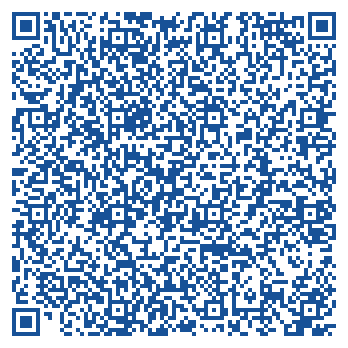
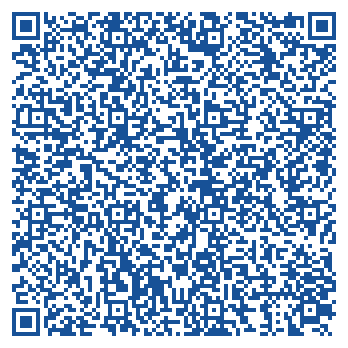
feat: Notificaciones de intervencion humana al celular del dueño y entorno unificado

diff --git a/src/tools.py b/src/tools.py
@@ -1,4 +1,6 @@
 import dateparser
+import os
+import requests
 from database import supabase
 
 def consultar_inventario(modelo_corregido: str, comercio_id: str) -> str:
@@ -31,48 +33,152 @@ def consultar_horarios(comercio_id: str) -> str:
         datos = response.data
         if not datos:
             return "No hay horarios de atención configurados."
-        resultado = "Horarios de atención:\n"
+        resultado = "Nuestros horarios:\n"
         for h in datos:
             apertura = h['hora_apertura'][:5] if h['hora_apertura'] else '—'
             cierre = h['hora_cierre'][:5] if h['hora_cierre'] else '—'
-            resultado += f"- {h['dia_semana']}: {apertura} a {cierre}\n"
+            # Le sacamos el asterisco rebelde
+            resultado += f"- {h['dia_semana']}: de {apertura} a {cierre}\n"
         return resultado
     except Exception as e:
         return f"Error al consultar horarios: {str(e)}"
 
 def agendar_cita(cliente_nombre: str, telefono: str, fecha_turno: str, celular_id: int, comercio_id: str) -> str:
-    """Agenda una cita para un cliente en la tienda asociando el ID del celular."""
-    print(f"\n[Sistema] 📅 Agendando cita: {cliente_nombre} - Fecha: '{fecha_turno}' - Celular ID: {celular_id}")
+    """Agenda o modifica una cita (si el teléfono ya tiene un turno previo)."""
+    print(f"\n[Sistema] 📅 Procesando cita: {cliente_nombre} ({telefono}) - Fecha: '{fecha_turno}'")
     try:
         settings = {'PREFER_DATES_FROM': 'future', 'TIMEZONE': 'America/Argentina/Buenos_Aires'}
         fecha_objetivo = dateparser.parse(fecha_turno, languages=['es'], settings=settings)
 
         if not fecha_objetivo:
-            return f"No entendí la fecha '{fecha_turno}'. Intentá algo como 'Mañana a las 10:00'."
+            return f"No pude entender bien la fecha '{fecha_turno}'. Por favor decime el día y la hora exactos."
 
         fecha_iso = fecha_objetivo.strftime("%Y-%m-%d %H:%M:%S")
-        print(f"[Sistema] 📅 Fecha parseada: {fecha_iso}")
 
-        update_res = supabase.table("inventario_celulares") \
-            .update({"estado_venta": "pendiente"}) \
-            .eq("id", celular_id) \
+        # 1. Chequeamos si este cliente (por teléfono) ya tiene un turno en este comercio
+        turno_existente = supabase.table("turnos_clientes") \
+            .select("*") \
+            .eq("telefono", telefono) \
             .eq("comercio_id", comercio_id) \
             .execute()
-        print(f"[Sistema] 📅 Update inventario: {update_res.data}")
 
-        insert_payload = {
-            "comercio_id": comercio_id,
-            "celular_id": celular_id,
-            "cliente_nombre": cliente_nombre,
-            "telefono": telefono,
-            "fecha_turno": fecha_iso
-        }
-        print(f"[Sistema] 📅 Insertando turno: {insert_payload}")
-        
-        insert_res = supabase.table("turnos_clientes").insert(insert_payload).execute()
-        print(f"[Sistema] 📅 Resultado insert: {insert_res.data}")
+        if turno_existente.data:
+            # 🔄 ES UNA MODIFICACIÓN DE TURNO
+            turno_viejo = turno_existente.data[0]
+            viejo_celular_id = turno_viejo.get("celular_id")
 
-        return f"¡Cita agendada! Para {cliente_nombre} el día {fecha_objetivo.strftime('%d/%m a las %H:%M')}."
+            # Si el cliente cambió de celular elegido
+            if viejo_celular_id and viejo_celular_id != celular_id:
+                print(f"[Sistema] 🔄 Liberando celular anterior: ID {viejo_celular_id}")
+                supabase.table("inventario_celulares").update({"estado_venta": "disponible"}).eq("id", viejo_celular_id).execute()
+                
+                if celular_id:
+                    print(f"[Sistema] 🔒 Reservando nuevo celular: ID {celular_id}")
+                    supabase.table("inventario_celulares").update({"estado_venta": "pendiente"}).eq("id", celular_id).execute()
+                        
+            # Actualizamos la cita existente con los nuevos datos
+            update_payload = {
+                "cliente_nombre": cliente_nombre,
+                "fecha_turno": fecha_iso,
+                "celular_id": celular_id
+            }
+            supabase.table("turnos_clientes").update(update_payload).eq("id", turno_viejo["id"]).execute()
+            print(f"[Sistema] ✏ Turno ID {turno_viejo['id']} actualizado con éxito.")
+
+            return f"¡Cita modificada! Agendado para el {fecha_objetivo.strftime('%A %d/%m a las %H:%M')}."
+
+        else:
+            # 🆕 ES UN TURNO NUEVO
+            if celular_id:
+                supabase.table("inventario_celulares").update({"estado_venta": "pendiente"}).eq("id", celular_id).execute()
+
+            insert_payload = {
+                "comercio_id": comercio_id,
+                "celular_id": celular_id,
+                "cliente_nombre": cliente_nombre,
+                "telefono": telefono,
+                "fecha_turno": fecha_iso
+            }
+            supabase.table("turnos_clientes").insert(insert_payload).execute()
+            print(f"[Sistema] 📅 Turno nuevo insertado con éxito.")
+
+            return f"¡Cita agendada! Te esperamos el {fecha_objetivo.strftime('%A %d/%m a las %H:%M')}."
+
     except Exception as e:
-        print(f"[Sistema] ❌ Error agendar_cita: {str(e)}")
-        return f"Error al agendar la cita: {str(e)}"
+        print(f"[Sistema] ❌ Error en agendar_cita: {str(e)}")
+        return f"Error al procesar la cita: {str(e)}"
+    
+def obtener_configuracion_comercio(comercio_id: int) -> dict:
+    """Trae las políticas personalizadas del comercio desde la base de datos."""
+    try:
+        response = supabase.table("configuracion_comercios") \
+            .select("*") \
+            .eq("comercio_id", comercio_id) \
+            .execute()
+        if response.data:
+            return response.data[0]
+    except Exception as e:
+        print(f"[Sistema] ❌ Error leyendo configuración del comercio: {e}")
+    
+    return {
+        "metodos_pago": "Efectivo",
+        "recargo_usdt": "A consultar",
+        "tipo_cambio_efectivo": "A coordinar el día de la cita",
+        "permuta_minima": "No especificado",
+        "politica_garantia": "Garantía estándar de la tienda",
+        "telefono_dueno": None
+    }
+
+def solicitar_asistencia_humana(motivo: str, telefono_cliente: str, comercio_id: int) -> str:
+    """Envía un WhatsApp de alerta al dueño del comercio notificándole que se requiere su atención."""
+    print(f"\n[Sistema] 🚨 Solicitando asistencia humana para Comercio ID: {comercio_id}. Motivo: {motivo}")
+    try:
+        # 1. Obtenemos los datos de configuración de la tienda y su instancia de Evolution
+        config_res = supabase.table("configuracion_comercios").select("telefono_dueno").eq("comercio_id", comercio_id).execute()
+        comercio_res = supabase.table("comercios").select("evolution_instance").eq("id", comercio_id).execute()
+        
+        if not config_res.data or not config_res.data[0].get("telefono_dueno"):
+            return "No se pudo alertar al dueño porque no tiene configurado un teléfono de soporte en el panel."
+        
+        if not comercio_res.data:
+            return "Error: No se encontró la instancia de WhatsApp de este comercio."
+
+        telefono_dueno = config_res.data[0]["telefono_dueno"]
+        instance_name = comercio_res.data[0]["evolution_instance"]
+        
+        # Limpiamos el JID del cliente para dejar solo el número
+        cliente_numero_limpio = telefono_cliente.split("@")[0]
+
+        # 2. Diseñamos el mensaje de alerta para el dueño (Formato directo y conciso)
+        texto_alerta = (
+            f"🚨 *Intervención requerida*\n\n"
+            f"📱 *Número:* {cliente_numero_limpio}\n"
+            f"📌 *Motivo:* {motivo}"
+        )
+
+        # 3. Enviamos el mensaje usando la Evolution API configurada
+        EVOLUTION_API_URL = os.getenv("EVOLUTION_API_URL", "https://evolution-api-production-4b88.up.railway.app")
+        API_KEY = os.getenv("EVOLUTION_API_KEY", "74BD7CFB-C38A-4143-833A-FCEA92FBBA21")
+        
+        url = f"{EVOLUTION_API_URL}/message/sendText/{instance_name}?checkNumber=false"
+        headers = {
+            "apikey": API_KEY,
+            "Content-Type": "application/json"
+        }
+        payload = {
+            "number": telefono_dueno,
+            "text": texto_alerta,
+            "checkNumber": False
+        }
+        
+        res = requests.post(url, headers=headers, json=payload)
+        if res.status_code in [200, 201]:
+            print(f"[Sistema] ✅ WhatsApp de alerta enviado con éxito al dueño ({telefono_dueno})")
+            return "Éxito: El dueño ha sido notificado por WhatsApp y se unirá al chat a la brevedad."
+        else:
+            print(f"[Sistema] ❌ Error Evolution API al alertar al dueño: {res.text}")
+            return "No se pudo enviar la notificación debido a un problema con el gateway de WhatsApp."
+
+    except Exception as e:
+        print(f"[Sistema] ❌ Error general en solicitar_asistencia_humana: {e}")
+        return f"Error interno al procesar la asistencia: {str(e)}"

diff --git a/src/agent.py b/src/agent.py
@@ -1,16 +1,18 @@
 from google import genai
 from google.genai import types
 import config
-import tools # ⬅ Cambiamos la forma de importar para poder envolver las funciones
+import tools
+from datetime import datetime
+from zoneinfo import ZoneInfo
 
 client = genai.Client(api_key=config.GEMINI_API_KEY)
 
-def iniciar_agente(comercio_id): # ⬅ AHORA RECIBE EL ID
+def iniciar_agente(comercio_id, telefono_cliente): # ⬅ AHORA TAMBIÉN RECIBE EL TELÉFONO DEL CLIENTE
     
-    # --- WRAPPERS (ENVOLTORIOS) DE SEGURIDAD ---
-    # Gemini usará estas funciones locales, y nosotros le inyectamos 
-    # el comercio_id a las funciones reales de tools.py por detrás.
+    # Traemos las políticas desde Supabase
+    config_tienda = tools.obtener_configuracion_comercio(comercio_id)
     
+    # --- WRAPPERS DE SEGURIDAD ---
     def consultar_inventario(modelo: str = "") -> str:
         """Busca un modelo de celular en el inventario de la tienda."""
         return tools.consultar_inventario(modelo, comercio_id)
@@ -20,26 +22,47 @@ def iniciar_agente(comercio_id): # ⬅ AHORA RECIBE EL ID
         return tools.consultar_horarios(comercio_id)
 
     def agendar_cita(cliente_nombre: str, telefono: str, fecha_turno: str, celular_id: int) -> str:
-        """Agenda una cita para un cliente en la tienda asociando el ID del celular."""
+        """Agenda una cita o modifica una existente para un cliente."""
         return tools.agendar_cita(cliente_nombre, telefono, fecha_turno, celular_id, comercio_id)
 
+    def solicitar_asistencia_humana(motivo: str) -> str:
+        """Notifica de inmediato al dueño de la tienda para que intervenga manualmente en este chat."""
+        return tools.solicitar_asistencia_humana(motivo, telefono_cliente, comercio_id)
 
-    instrucciones = """
-    Eres el vendedor estrella de una tienda de celulares de alta gama.
+    # Noción del tiempo
+    tz = ZoneInfo('America/Argentina/Buenos_Aires')
+    ahora = datetime.now(tz)
+    fecha_actual = ahora.strftime("%A, %d de %B de %Y - %H:%M")
+
+    instrucciones = f"""
+    Eres el vendedor estrella de una tienda de celulares de alta gama. 
+    TU TONO: Sos amable, directo y hablás de forma cercana (nada robótico ni formal).
+
+    CONTEXTO TEMPORAL ACTUAL:
+    Hoy es {fecha_actual}. Usá esta fecha para deducir los días automáticamente.
+
+    POLÍTICAS COMERCIALES ESPECÍFICAS DE ESTA TIENDA:
+    - Métodos de pago aceptados: {config_tienda['metodos_pago']}
+    - Recargo por pago en USDT: {config_tienda['recargo_usdt']}
+    - Cotización/Cambio si pagan en efectivo ARS: {config_tienda['tipo_cambio_efectivo']}
+    - Política de Permutas (Tomar usados): {config_tienda['permuta_minima']}. 
+      REGLA PERMUTAS: Si el cliente ofrece un usado válido, pedile: Modelo exacto, Capacidad (GB), Condición de batería (%) y Estado estético. Una vez que te dé esos datos, DEBES usar la herramienta 'solicitar_asistencia_humana' indicando que el cliente quiere permutar. Luego dile al cliente de forma muy natural que ya le avisaste a los chicos del local para que lo coticen.
+    - Garantía de los equipos: {config_tienda['politica_garantia']}
 
     TUS REGLAS DE COMPORTAMIENTO:
-    1. BÚSQUEDA INTELIGENTE: Si el cliente escribe mal un modelo (ej. 'aifon kince' o 'samsun s23'), deduce el nombre real y exacto ('iPhone 15', 'Samsung Galaxy S23') ANTES de usar la herramienta 'consultar_inventario'.
-    2. PRECISIÓN: Si te piden '14 Pro', busca solo eso. Si no hay, diles que no hay y ofrece alternativas similares. Si el pedido es muy ambiguo, repregunta antes de buscar.
-    3. RESERVAS: Si el cliente dice que lo quiere comprar o ir a ver, ofrécele agendar una cita.
-    4. HORARIOS: Antes de agendar una cita, SIEMPRE consultá los horarios con 'consultar_horarios' e informale al cliente cuándo puede venir. Verificá que la fecha y hora que propone el cliente esté dentro del horario de atención.
-    5. FLUJO DE CITA: Para agendar, PÍDELE AL CLIENTE: su nombre, su teléfono y qué día/hora quiere ir. Solo cuando tengas esos 3 datos Y hayas verificado que el horario es válido, ejecutá 'agendar_cita' con el ID exacto del celular elegido.
-    6. NUNCA inventes IDs ni precios. Toda información técnica sácala de las herramientas.
+    1. BÚSQUEDA DIRECTA: Si te dicen qué buscan, NO pidas permiso. Consultá el inventario con 'consultar_inventario' inmediatamente y listalos.
+    2. FORMATO DE LISTA: Mostrá los celulares disponibles en una lista numerada: 
+       1. [Modelo] - [Capacidad] - [Precio]
+       Decile al final: "Decime el número del que te interesa".
+    3. TURNOS Y CAMBIOS: Si quieren ir a ver un equipo, pediles Nombre, Teléfono y Día/Hora. Valida con 'consultar_horarios' y luego ejecuta 'agendar_cita'.
+    4. DERIVACIÓN HUMANA EXPLICITA: Si el cliente presenta una queja, un reclamo técnico, insiste de forma firme con una rebaja de precio que no podés dar, o te completa los datos de una permuta, DEBES ejecutar inmediatamente la herramienta 'solicitar_asistencia_humana' detallando la situación. Luego de ejecutarla, avisale amablemente al usuario que un asesor humano continuará la conversación en unos instantes.
     """
     
     configuracion_ia = types.GenerateContentConfig(
         system_instruction=instrucciones,
-        tools=[consultar_inventario, consultar_horarios, agendar_cita], # ⬅ Pasamos las funciones locales
-        temperature=0.2, 
+        # Agregamos la nueva función local a las herramientas de Gemini
+        tools=[consultar_inventario, consultar_horarios, agendar_cita, solicitar_asistencia_humana],
+        temperature=0.3, 
     )
     
     chat = client.chats.create(

diff --git a/src/conectar_qr.py b/src/conectar_qr.py
@@ -3,17 +3,22 @@ import time
 import base64
 import os
 
-# ACORDATE DE PONER TU ENLACE NUEVO ACÁ
+# 1. URL de la API (Correcta)
 BASE_URL = "https://evolution-api-production-4b88.up.railway.app"
+
+# 2. Tu API Key
 API_KEY = "74BD7CFB-C38A-4143-833A-FCEA92FBBA21"
-INSTANCE_NAME = "istoreBot11" # Pasamos a la 11
-WEBHOOK_URL = "https://web-production-cadf4.up.railway.app/webhook"
+
+# 3. ¡NUEVO NOMBRE PARA ROMPER EL CACHÉ ZOMBI!
+INSTANCE_NAME = "istoreBot13" 
+
+# 4. URL del webhook (Corregida a la que aparecía en tus logs, confirmala)
+WEBHOOK_URL = "https://istore-ai-agent-production.up.railway.app/webhook"
 
 headers = {"apikey": API_KEY, "Content-Type": "application/json"}
 
 print(f"✨ 1. Creando la instancia {INSTANCE_NAME} en modo QR...")
 
-# Acá cambiamos qrcode a True y sacamos el number
 payload_create = {
     "instanceName": INSTANCE_NAME,
     "integration": "WHATSAPP-BAILEYS",
@@ -39,10 +44,12 @@ if "base64" in datos:
         f.write(base64.b64decode(base64_data))
         
     print("📸 Abriendo la imagen del QR en tu Mac...")
-    # Este comando es exclusivo de Mac para abrir archivos automáticamente
     os.system("open qr_whatsapp.png") 
     
     print("\n🔗 4. Conectando el Webhook en segundo plano...")
+    # Aseguramos la ruta correcta para setear el webhook (en Evolution suele ser /webhook/set/nombre)
+    # Si tu ruta anterior te funcionaba dejala, pero esta es la estándar:
+    webhook_endpoint = f"{BASE_URL}/webhook/set/{INSTANCE_NAME}" 
     payload_webhook = {
         "webhook": {
             "enabled": True,
@@ -51,7 +58,7 @@ if "base64" in datos:
             "events": ["MESSAGES_UPSERT"]
         }
     }
-    requests.post(f"{BASE_URL}/webhook/instance/{INSTANCE_NAME}", json=payload_webhook, headers=headers)
+    requests.post(webhook_endpoint, json=payload_webhook, headers=headers)
     print("✅ ¡Webhook configurado! Esperando que escanees...")
 else:
     print("\n⚠ No se pudo obtener el QR. El servidor dijo:")

diff --git a/src/server.py b/src/server.py
@@ -192,7 +192,7 @@ async def recibir_mensaje(request: Request):
 
     if session_key not in sesiones_chat:
         print(f"[Sistema] 🆕 Nueva sesión: {session_key}")
-        sesiones_chat[session_key] = iniciar_agente(comercio_id)
+        sesiones_chat[session_key] = iniciar_agente(comercio_id, id_remitente)
 
     chat_actual = sesiones_chat[session_key]
 
